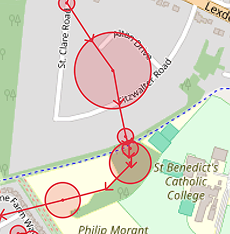
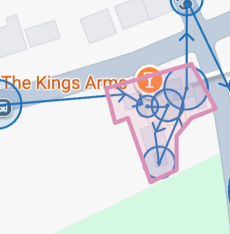
Updates to map help page

diff --git a/app/views/map-help.html b/app/views/map-help.html
@@ -22,10 +22,10 @@
     <div style="float: right; width: 200px; height: 200px;" aria-hidden="true"></div>
 
     <p class="govuk-body">
-      The information shown on maps is based on the GPS data received from tags which is usually subject to delays of around 10 to 15 minutes.
+      The information shown on maps is based on the GPS data received from tags which is usually subject to delays of around 10 to 15 minutes. 
       </p>
     <p class="govuk-body">
-      Delays vary depending on network coverage and how often tags upload GPS data.
+      Delays vary depending on network coverage and how often tags upload GPS data.  
       </p>
     <p class="govuk-body">
       Use timestamps to find out when and how long a person on probation visited a location.
@@ -47,14 +47,9 @@
       Locations of interest have defined boundaries which reflect the real-world and include:
       </p>
     <ul class="govuk-list govuk-list--bullet">
-      <li>exclusion and inclusion zones</li>
-      <li>home and other addresses - for example, family, friend and parental</li>
       <li>places of interest - for example, pubs</li>
       <li>required locations - for example, places of work and training providers</li>
     </ul>
-    <p class="govuk-body">
-      <a href="#" class="govuk-link">View full list of locations of interest</a>
-    </p>
   </div>
 
   <div class="govuk-!-margin-bottom-6">
@@ -82,8 +77,7 @@
       <li>GPS satellite availability</li>
       <li>signal obstruction</li>
     </ul>
-    <p class="govuk-body">
-      <a href="#" class="govuk-link">View full list of factors</a>
+    
   </div>
 </div>
 
